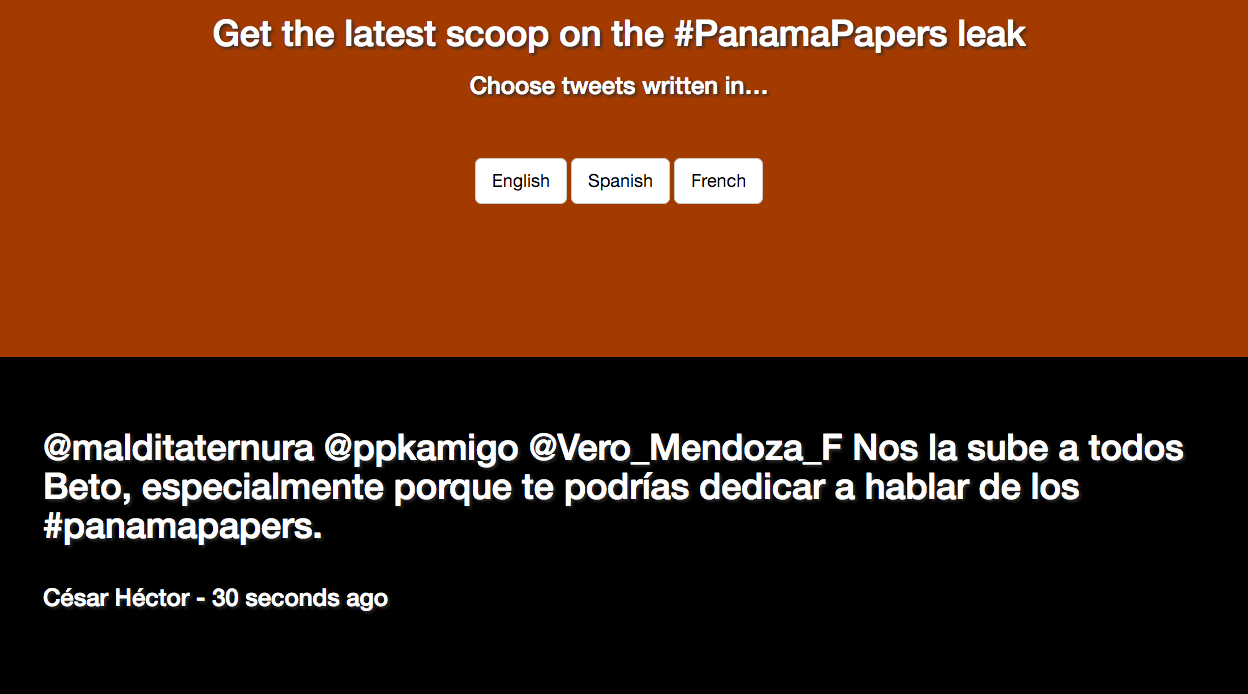
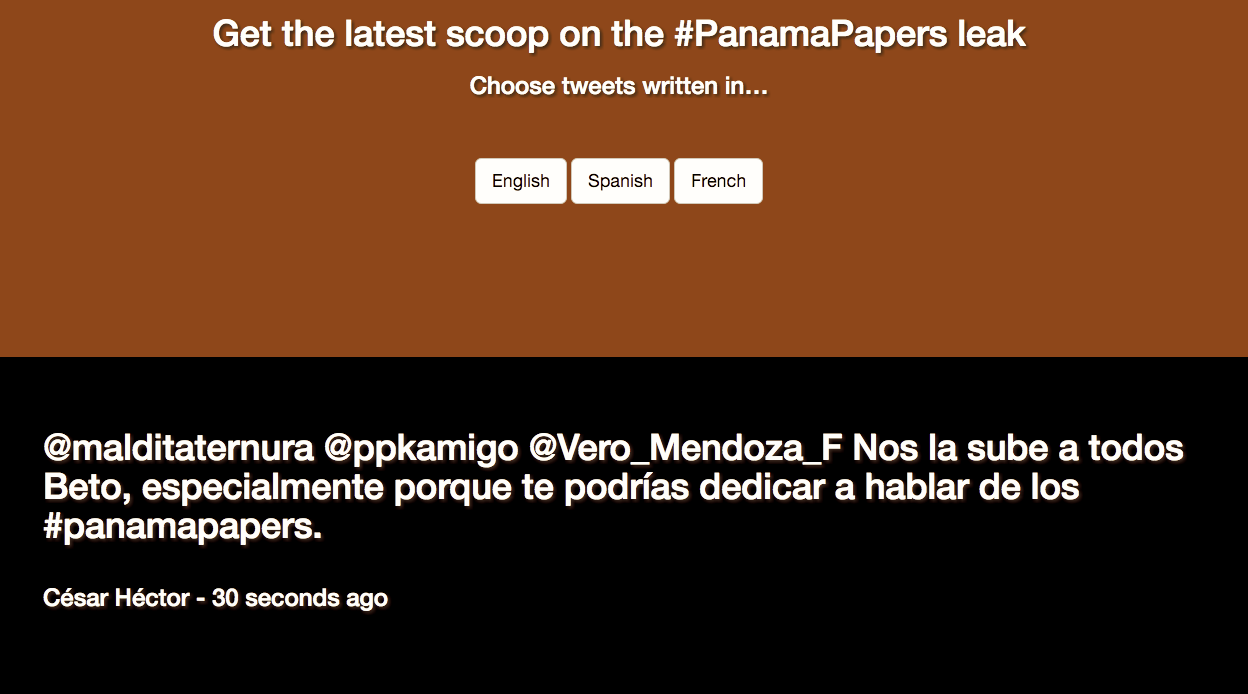
fixed portfolio section link and made images sepia

diff --git a/index.html b/index.html
@@ -58,11 +58,11 @@
     </div>
   </div>
 
-  <div class="section scrollspy" id="projects">
+  <div class="section scrollspy" id="portfolio">
     <div class="container">
       <div class="row">
         <div class="col s12">
-          <h4>Web Development Projects</h4>
+          <h4>Web Development Portfolio</h4>
         </div>
       </div>
       <div class="row" ng-hide="loaded">
